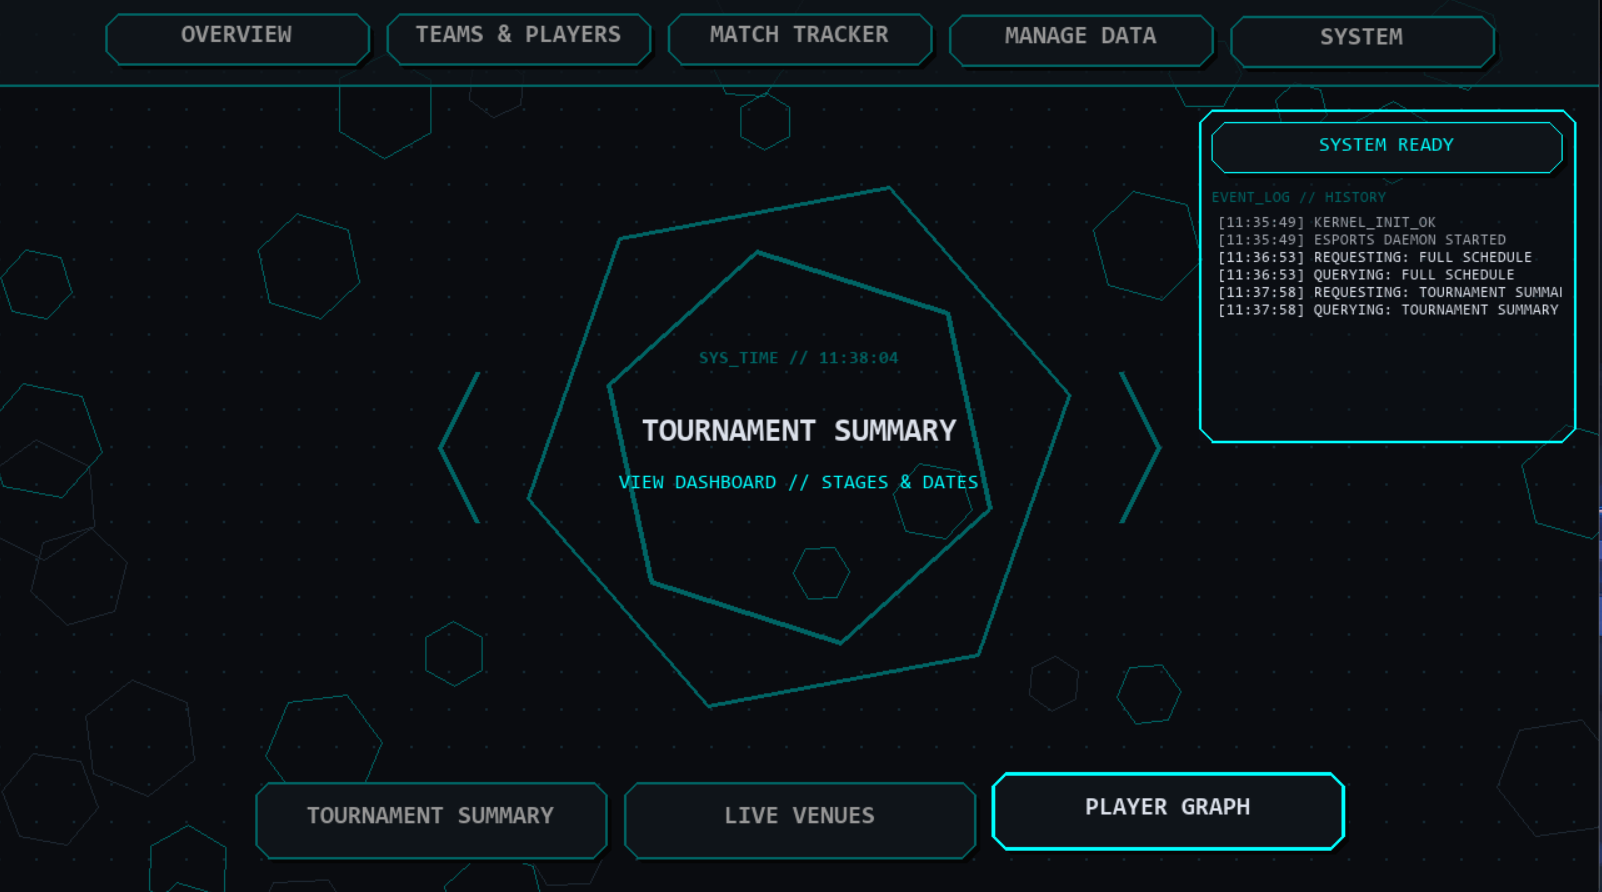
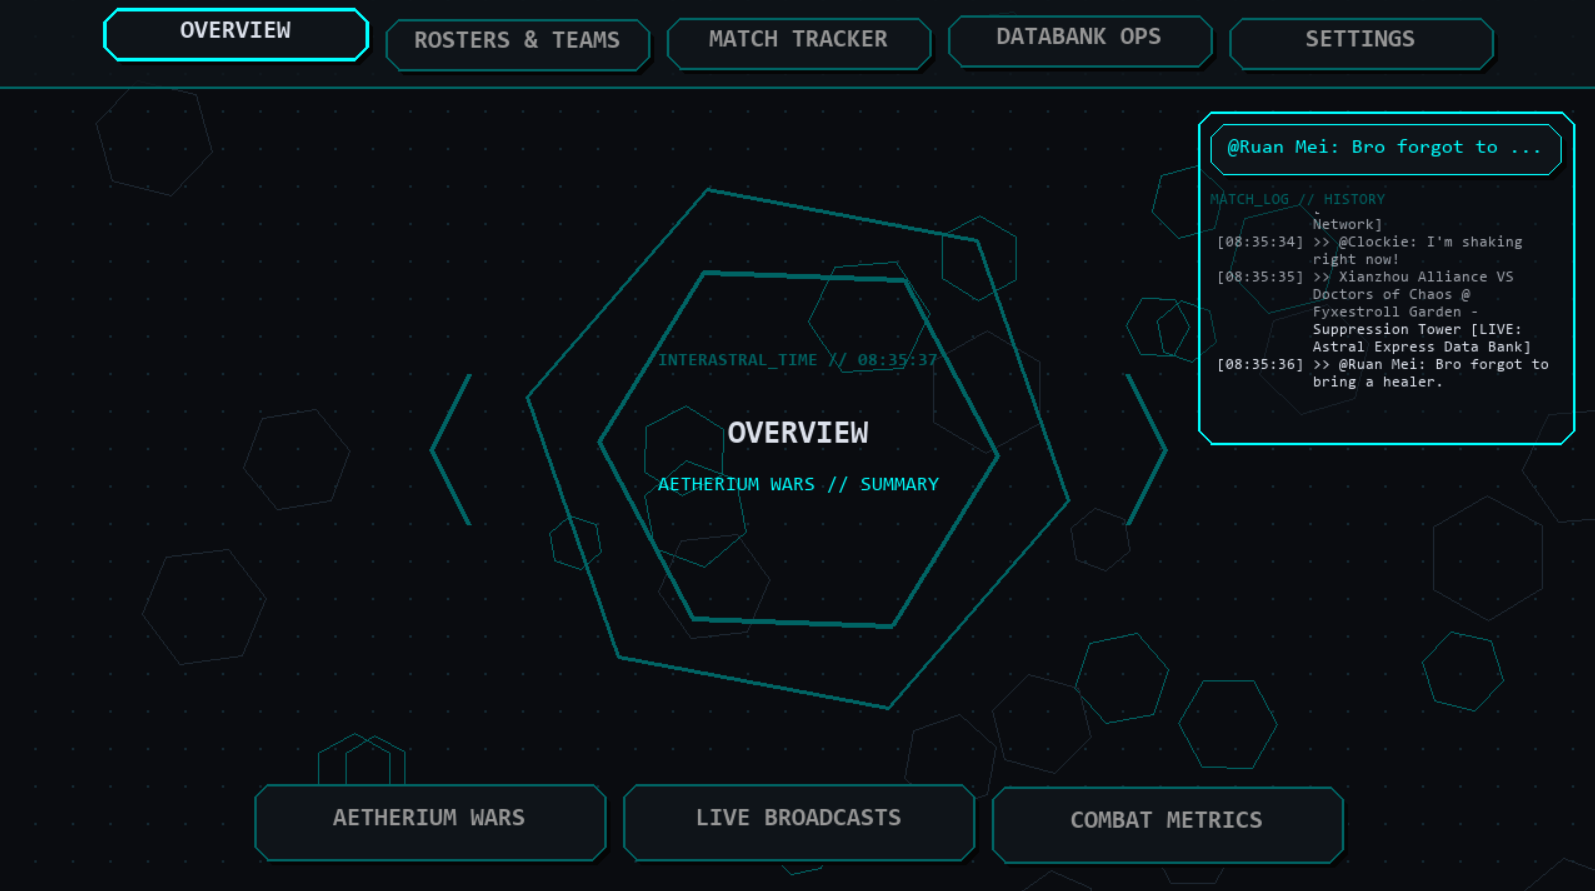
V1.2

diff --git a/README.md b/README.md
@@ -1,42 +1,52 @@
 # ESPORTS DB // TERMINAL (HONKAI STAR RAIL THEMED)
-### "A high-performance Pygame dashboard for eSports tournament management."
+### "A high-performance Pygame dashboard for eSports tournament management, with a nice HSR theme touch."
+
+Ever wanted to manage an eSports tournament but felt like standard database tools were just a bit too... boring? Welcome to the Terminal! This project is a fully functional SQL database dashboard wrapped in a sleek, Honkai: Star Rail-inspired UI. Whether you're tracking the Aetherium Wars or just organizing your own local brackets, why not do it in style?
 
 ![Python](https://img.shields.io/badge/Python-3.10+-3776AB?style=flat&logo=python&logoColor=white)
 ![Pygame](https://img.shields.io/badge/Pygame-CE-green?style=flat&logo=python)
 ![SQL Server](https://img.shields.io/badge/SQL_Server-MS_SQL-CC2927?style=flat&logo=microsoftsqlserver&logoColor=white)
-![Course](https://img.shields.io/badge/Course-CS160_Databases-blue?style=flat)
-
-> ⚡ **Context:** This project was developed for a Database Systems (CS160) curriculum to demonstrate the integration of a complex Microsoft SQL Server backend with a hardware-accelerated Python front-end application layer.
+![Honkai Star Rail](https://img.shields.io/badge/Honkai_Star_Rail-🚂-purple?style=flat)
 
 ---
 
-## 📸 UI
+## 📸 Interastral Peace Broadcast // UI Preview
 
 <p align="center">
-  <img src="assets/eSports_DEMO.png" width="48%" alt="Main Dashboard" style="border-radius: 5px;">
+  <img src="assets\eSports_DEMO.png" width="48%" alt="Screenshot 1" style="border-radius: 5px;">
   &nbsp; &nbsp;
-  <img src="assets/eSports_Query_Viewer.png" width="48%" alt="Data Viewer" style="border-radius: 5px;">
+  <img src="assets\eSports_Schedule_Viewer.png" width="48%" alt="Screenshot 2" style="border-radius: 5px;">
 </p>
 
 <p align="center">
-  <img src="assets/eSports_Update_Record.png" width="97%" alt="Graph Viewer" style="border-radius: 5px;">
+  <img src="assets\eSports_Update_Status.png" width="48%" alt="Screenshot 3" style="border-radius: 5px;">
+  &nbsp; &nbsp;
+  <img src="assets\eSports_Player_Graph.png" width="48%" alt="Screenshot 4" style="border-radius: 5px;">
 </p>
 
 *The UI utilizes asynchronous threading for all database queries via `pyodbc`. This ensures animations, floating UI elements, and interactive screens maintain 60FPS even when fetching complex multi-table SQL joins.*
 
 ---
 
-## 🛠️ Installation & Setup
+## ✨ Data Bank Contents (Features)
+- **Full-Fledged Tournament Tracker**: Keep tabs on your live matches, active rosters, global standings, and player combat metrics all in one place.
+- **Banging OST**: Chill out to some sweet Penacony tunes ("Game Time! Planarcadia Battle Theme" plays by default) while you crunch those numbers and edit records.
+- **Easter Eggs & Flavor**: Keep an eye on the system log... Silver Wolf might just try to hack your terminal if you leave it running long enough. Plus, the ticker features live "fan reactions" to your matches!
+- **Buttery Smooth UI**: Built with Pygame-CE, it features floating hexes, a "breathing" core animation, and fully interactive data viewers that feel straight out of the Interastral Peace Corporation.
 
-### 1. Database Setup
-Before running the UI, the Microsoft SQL Server database must be initialized:
-1. Open **SQL Server Management Studio (SSMS)**.
+---
+
+## 🛠️ Astral Express Boarding Procedure (Installation & Setup)
+
+### 1. IPC Matrix Initialization (Database Setup)
+Before diving into the Simulated Universe, the IPC database must be initialized:
+1. Open **SQL Server Management Studio (SSMS)** (your databank client).
 2. Navigate to the `SQL/` directory in this repository.
 3. Open and execute `eSports_DB_Creation.sql` to build the schema.
 4. Open and execute `eSports_Sample_Data.sql` to populate the tables.
 
-### 2. Python Environment
-Clone the repository and install the required dependencies:
+### 2. Synesthesia Environment Calibration (Python Setup)
+Download the coordinates to your local terminal and install the required Synesthesia dependencies:
 ```bash
 git clone [https://github.com/YOUR_USERNAME/ESPORTS-DB-TERMINAL.git](https://github.com/YOUR_USERNAME/ESPORTS-DB-TERMINAL.git)
 cd ESPORTS-DB-TERMINAL
@@ -93,6 +103,9 @@ Use the scroll wheel to navigate populated data tables and the live system log.
 You can use Sample Data Generator to fill out your tables.
 
 Press ESC to close any active data viewers or graphs.
+
+## 🚧 Trailblazer's Warning (Disclaimer)
+Just a quick heads-up: this is purely a passion project built for fun! While the Astral Express usually runs on time, you might occasionally bump into a few bugs, glitches, or space-time anomalies (aka random errors) along the way. Feel free to tinker around, fix things, and make it your own!
 
 ## ⚖️ License
 Distributed under the MIT License. See LICENSE for more information.